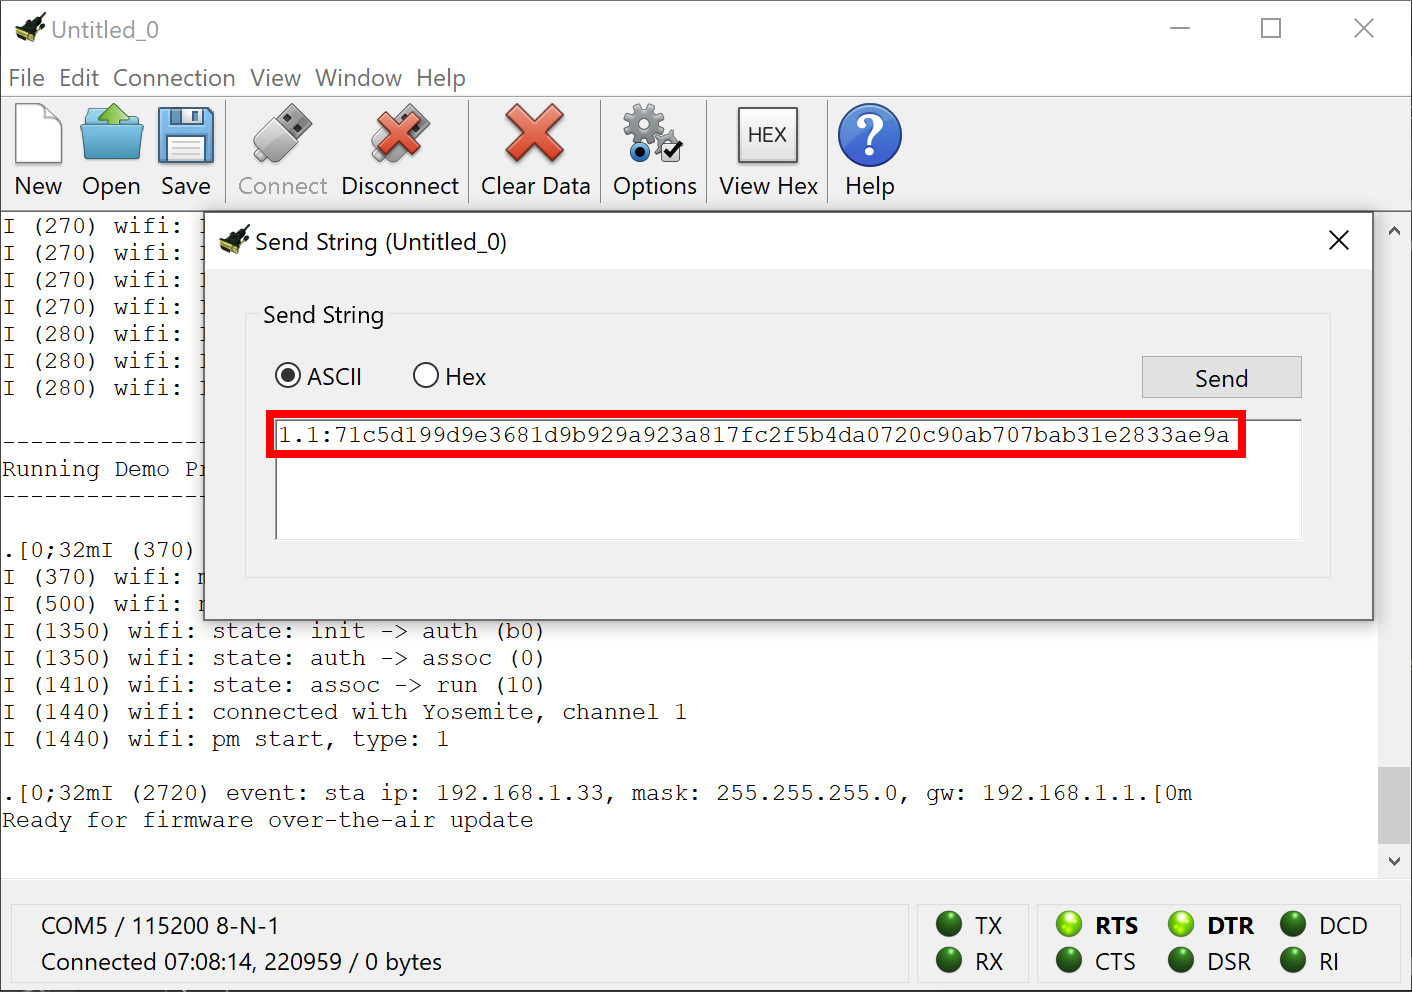
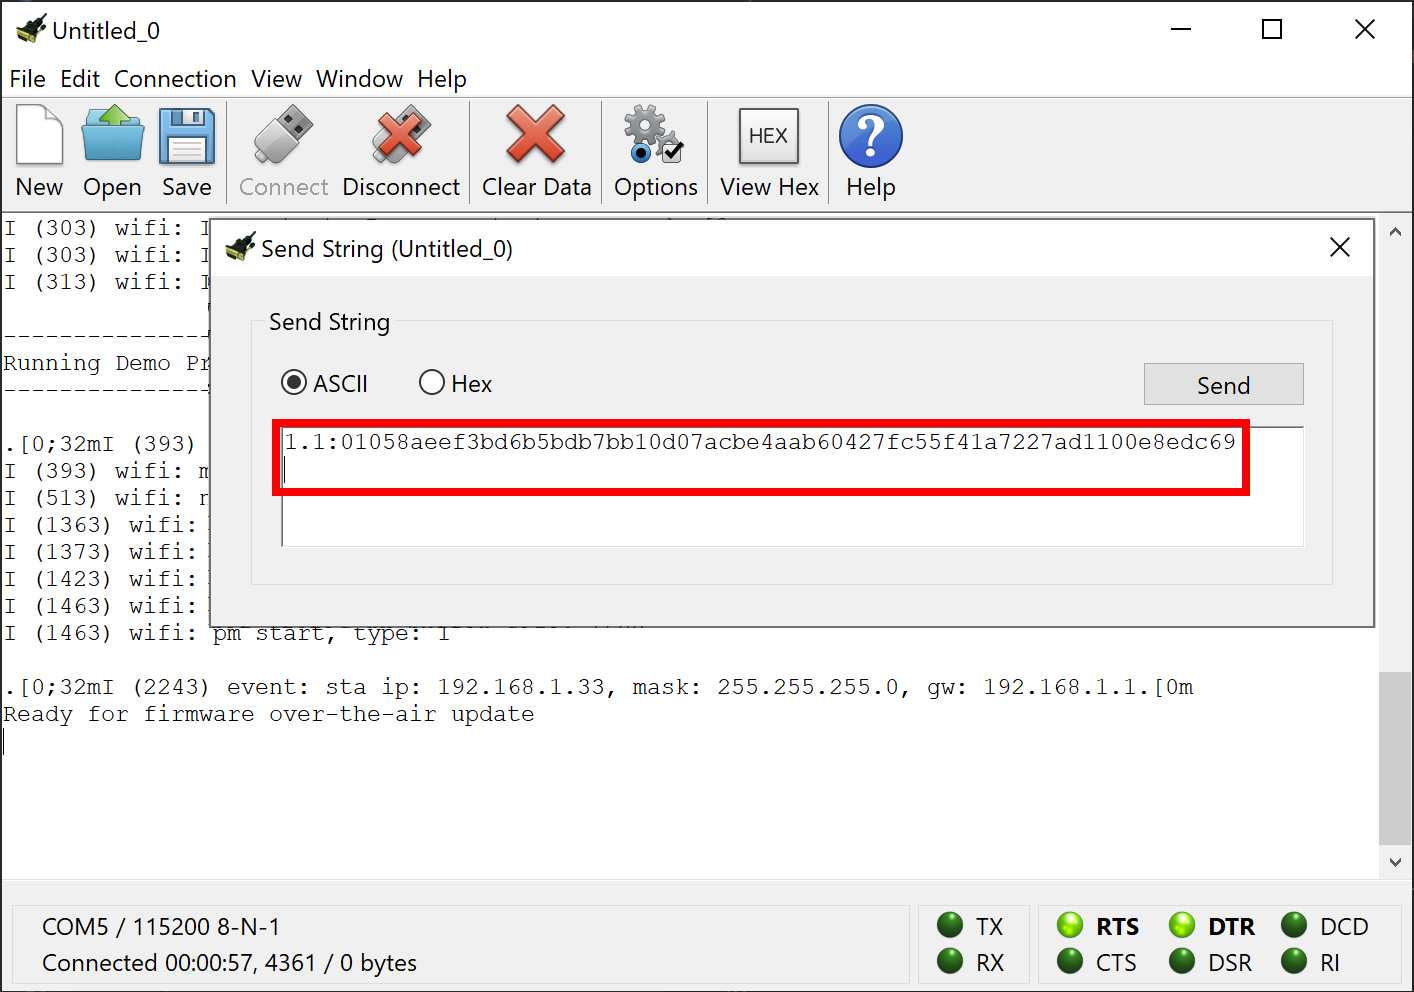
FotaHub Device SDK for ESP32 1.0.0-4

diff --git a/docs/getting-started/simple.md b/docs/getting-started/simple.md
@@ -124,11 +124,13 @@ make flash IDF_PATH=<ESP-IDF install/checkout location> CONFIG_ESPTOOLPY_PORT=<C
 
 ### Make your first firmare over-the-air update 
 
-1. Go back to the serial monitor app showing the execution status of your board running the initial firmware version. Enter the new firmware version followed by a ':' and the checksum of the same in the text field or dialog provided for sending data over the opened serial port (`Connection > Send String...` in CoolTerm):
+1. Go back to the serial monitor app showing the execution status of your board running the initial firmware version. Enter the new firmware version followed by a ':', the checksum of the same, and a terminating line break in the text field or dialog provided for sending data over the opened serial port (`Connection > Send String...` in CoolTerm):
 
 ![](simple-2.png "Trigger of FOTA update") 
 
 > &#x1F6C8; You can find the checksum of the new firmware version by selecting it in the `Details` section of your [FotaHub](https://fotahub.com) product and locating it in the properties of the same.
+
+> &#x1F6C8; In most cases, your serial monitor app can be configured to automatically terminate all strings being sent with a line break so that you can't forget to do so manually upon every submission (`Connection > Options... > Transmit > Send String Options > Terminate 'Send String' Data` in CoolTerm).
 
 2. Submit the firmware update info string to your board (`Send` button in CoolTerm). This will trigger the firmware over-the-air update procedure. Upon successful completion, the board will be restarted with the new firmware version. To verify that, check the firmware version in the banner showing up in the serial monitor output:
 

diff --git a/docs/fotahub/upload-firmware.md b/docs/fotahub/upload-firmware.md
@@ -18,7 +18,6 @@
 
 ![](upload-firmware-4.png "Upload firmware - step 2")
 
-
 > &#x1F6C8; If you have opted for `Signature` instead of `Checksum` as binary verification method for your product, you will be required to provide also the signature of the new firmware version. It must be based on the signature algorithm that you have configured upon product creation or through the product settings.
 
 6. Click on `Next` and then on `Upload` to start the firmware upload process. When completed, you will get redirected back to the product details view and see the newly uploaded firmware version along with its properties. Most importantly, you will be able to find the firmware binary download URL and its checksum that has been automatically calculated based on the binary checksum algorithm chosen upon product creation: 
